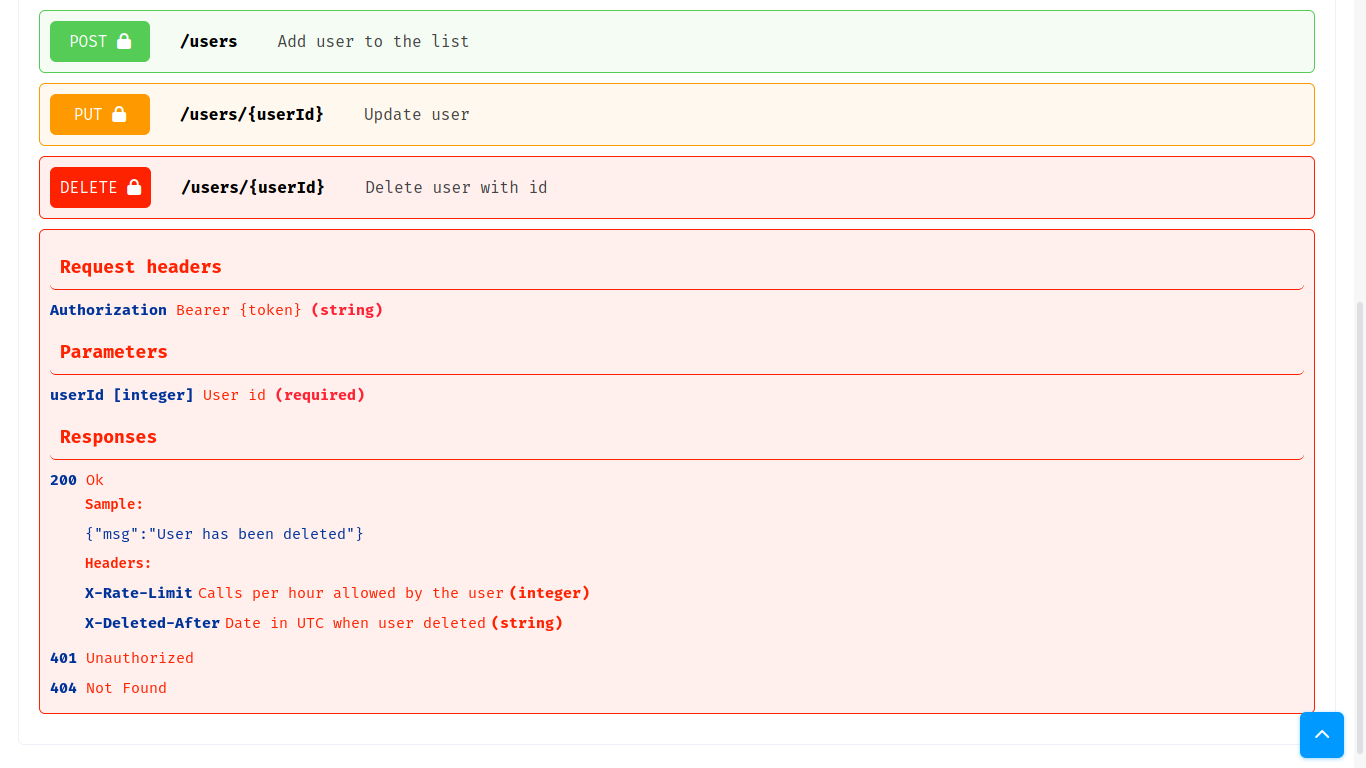
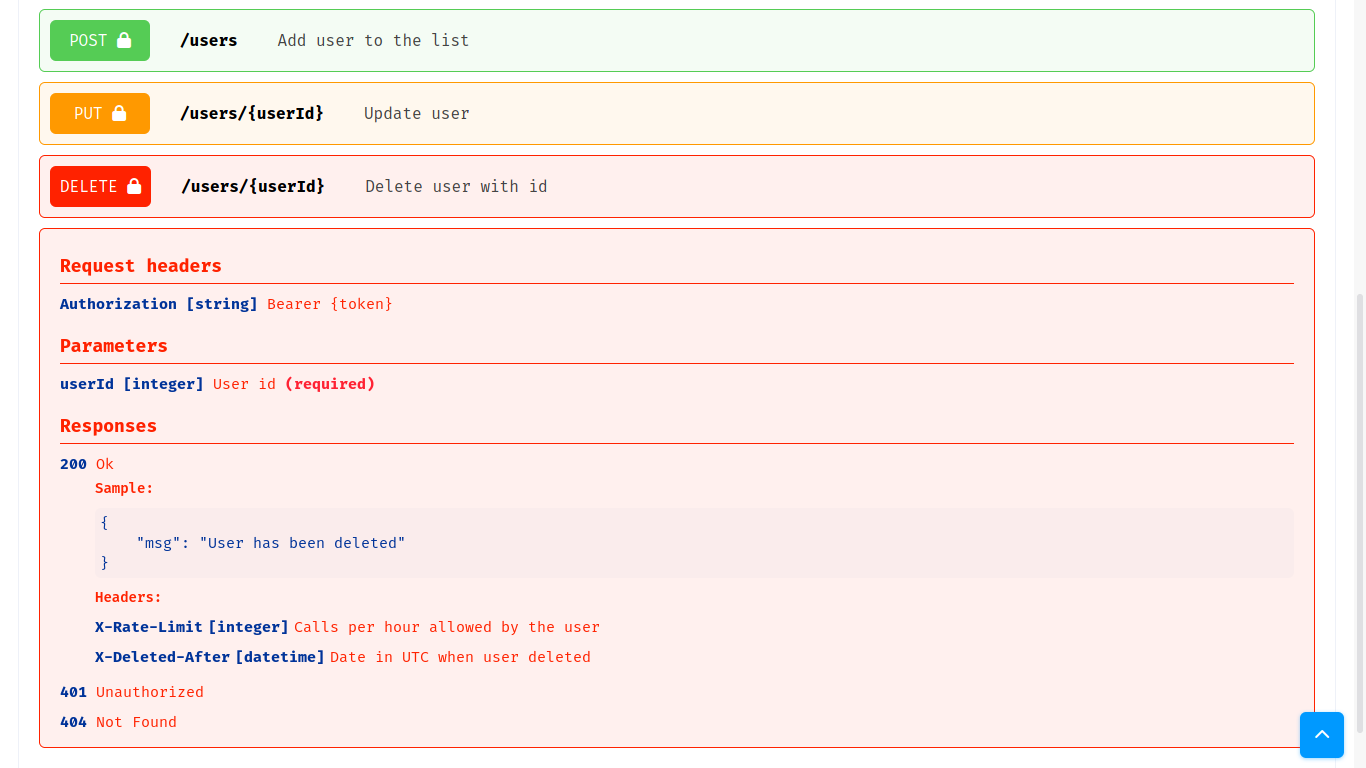
RestDoc
Style update

diff --git a/resources/views/main.blade.php b/resources/views/main.blade.php
@@ -42,9 +42,9 @@
 		.part .method-delete {color: #fff; background: #ff2200;}
 
 		.open .part {border-radius: 6px 6px 0px 0px;}
-		.row__details {display: none; float: left; width: 100%; margin: 0px 0px 20px 0px; padding: 10px; border-radius: 6px;}
+		.row__details {display: none; float: left; width: 100%; margin: 0px 0px 20px 0px; padding: 10px 20px; border-radius: 6px;}
 		.open + .row__details {display: inherit; font-size: 15px;}
-		.row__details_title {font-size: 18px; font-weight: 700; float: left; width: 100%; padding: 10px; margin: 5px 0px; border-radius: 6px;}
+		.row__details_title {font-size: 18px; font-weight: 700; float: left; width: 100%; padding: 10px 0px 5px 0px; margin: 5px 0px; border-radius: 0px;}
 		.param__bg {float: left; width: 100%; padding: 5px 0px; color: #003399; border-radius: 6px;}
 		.param__details {float: left; width: 100%; padding: 5px 0px;}
 		.bold {color: #039 !important; font-weight: 700}
@@ -53,7 +53,7 @@
 		.header {display: flex; float: left; width: 100%; padding: 5px 0px}
 		.header__name {font-weight: 700; padding-right: 5px; color: #003399}
 		.header__desc {font-weight: 400; padding-right: 5px;}
-		.header__type {font-weight: 700; padding-right: 5px;}
+		.header__type {font-weight: 700; padding-right: 5px; color: #003399}
 
 		.border-get {border-bottom: 1px solid #0099ff;}
 		.border-post {border-bottom: 1px solid #55cc55;}
@@ -66,7 +66,7 @@
 		i {padding: 0px;}
 
 		@media all and (max-width: 480px) {
-			* { font-size: 14px !important; }
+			/* * { font-size: 14px !important; } */
 		}
 	</style>
 
@@ -115,8 +115,9 @@
 									<div class="row__details_title border-{{ strtolower($m['method']->label()) }}">Request headers</div>
 									@foreach ($m['headers'] as $h)
 										<div class="param__details">
-											<span class="bold"> {{ $h['name'] }}  </span>  {{ $h['desc'] }}
-											<span class="bold-red">({{ $h['type'] }})</span>
+											<span class="bold"> {{ $h['name'] }}  </span>
+											<span class="bold">[{{ $h['type'] }}] </span>
+											{{ $h['desc'] }}
 										</div>
 									@endforeach
 								@endif
@@ -185,8 +186,8 @@
 													@foreach ($p['headers'] as $h)
 														<div class="header">
 															<div class="header__name">{{ $h['name'] }}</div>
+															<div class="header__type">[{{ $h['type'] }}]</div>
 															<div class="header__desc">{{ $h['desc'] }}</div>
-															<div class="header__type">({{ $h['type'] }})</div>
 														</div>
 													@endforeach
 												@endif

diff --git a/routes/routes.php b/routes/routes.php
@@ -118,7 +118,7 @@ Route::get('/doc/v1', function () {
 		[
 			Resp::get(200, 'Ok', json_encode(['msg' => 'User has been deleted']), '', [
 				Header::get('X-Rate-Limit', 'Calls per hour allowed by the user', 'integer'),
-				Header::get('X-Deleted-After', 'Date in UTC when user deleted', 'string'),
+				Header::get('X-Deleted-After', 'Date in UTC when user deleted', 'datetime'),
 			]),
 			Resp::get(401, 'Unauthorized'),
 			Resp::get(404, 'Not Found'),
